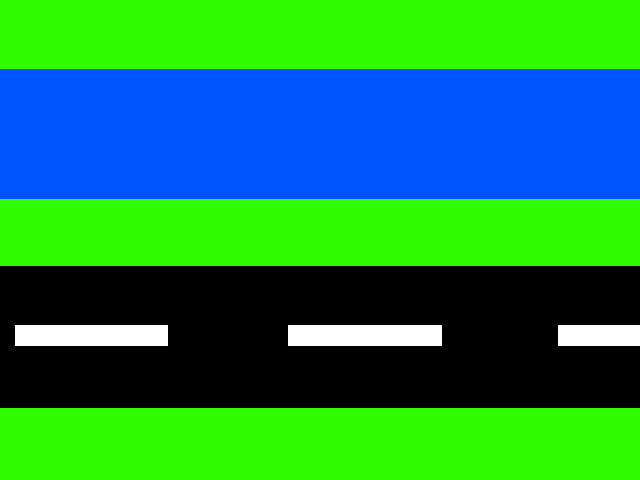
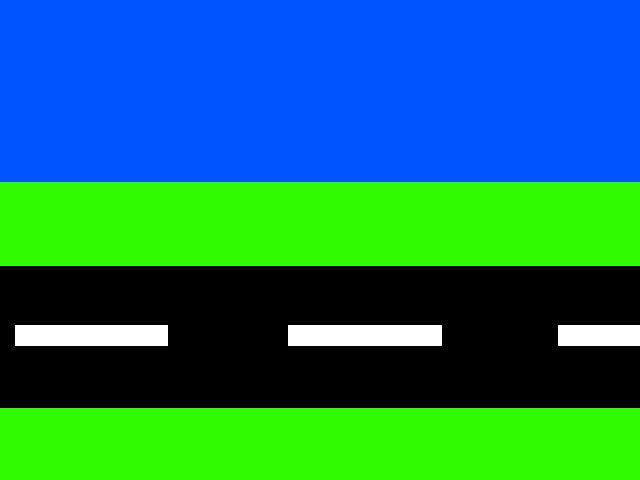
Added pads, with collision etc Water now kills frog Editied sprites

Changed region(s): [[0.0, 0.0, 1.0, 0.1562], [0.0, 0.375, 1.0, 0.4375]]

diff --git a/New Frogger/New Frogger.cpp b/New Frogger/New Frogger.cpp
@@ -4,22 +4,32 @@
 #include "Level.h"
 #include "Truck.h"
 #include "Log.h"
+#include "LilyPad.h"
 #include "DeathZone.h"
 #include "Collision.h"
 
 int main()
 {
 	sf::RenderWindow window(sf::VideoMode(640, 480), "Frogger");
-	sf::Font font;
+	const int iPad = 5;
+	int wins = 0;
+	int lives = 3;
 
 	Frog frog(window.getSize());
 	Level level(window.getSize());
 	Truck truck(window.getSize(), 0, 270);
 	Truck truck2(window.getSize(), 0, 360);
-	Log log(window.getSize(), 0, 70);
+	Log log(window.getSize(), 0, 80);
 	Log log2(window.getSize(), 0, 130);
+	LilyPad lilypad [iPad];
 	DeathZone water(window.getSize());
 	Collision collision;
+
+	lilypad[0].setPos(40, 0);
+	lilypad[1].setPos(160, 0);
+	lilypad[2].setPos(280, 0);
+	lilypad[3].setPos(400, 0);
+	lilypad[4].setPos(520, 0);
 
 	while (window.isOpen())
 	{
@@ -51,11 +61,13 @@ int main()
 
 		if (collision.TruckFrogCollision(truck.getTruck(), frog.getFrog()))
 		{
+			lives--;
 			frog.Respawn(window.getSize());
 		}
 
 		if (collision.TruckFrogCollision(truck2.getTruck(), frog.getFrog()))
 		{
+			lives--;
 			frog.Respawn(window.getSize());
 		}
 
@@ -69,15 +81,41 @@ int main()
 			frog.LogMovementType2(event);
 		}
 
-		if (collision.WaterFrogCollision(water.getDeathZone(), frog.getFrog()) /* &&
-			!collision.LogFrogCollision(log.getLog(), frog.getFrog()) &&
-			!collision.LogFrogCollision(log2.getLog(), frog.getFrog())*/)
+		for (int i = 0; i < iPad; i++)
 		{
-			frog.Respawn(window.getSize());
+			if (collision.WaterFrogCollision(water.getDeathZone(), frog.getFrog()) &&
+				!collision.LogFrogCollision(log.getLog(), frog.getFrog()) &&
+				!collision.LogFrogCollision(log2.getLog(), frog.getFrog()) &&
+				!collision.PadFrogCollision(lilypad[i].getLilyPad(), frog.getFrog()))
+			{
+				lives--;
+				frog.Respawn(window.getSize());
+			}
+
+			if (collision.PadFrogCollision(lilypad[i].getLilyPad(), frog.getFrog()))
+			{
+				lilypad[i].addFrog();
+				wins++;
+				frog.Respawn(window.getSize());
+			}
 		}
 
-		//level.Draw(window);
+		if (wins == 5)
+		{
+			std::cout << "You Win!" << std::endl;
+		}
+
+		if (lives == 0)
+		{
+			std::cout << "Game Over!" << std::endl;
+		}
+
+		level.Draw(window);
 		water.Draw(window);
+		for (int i = 0; i < iPad; i++)
+		{
+			lilypad[i].Draw(window);
+		}
 		log.Draw(window);
 		log2.Draw(window);
 		frog.Draw(window);

diff --git a/New Frogger/LilyPad.cpp b/New Frogger/LilyPad.cpp
@@ -1,0 +1,28 @@
+#include "LilyPad.h"
+
+LilyPad::LilyPad()
+{
+	lilyPadTex.loadFromFile(LILYPAD_SPRITE_FILEPATH);
+	lilyPad.setTexture(lilyPadTex);
+}
+
+void LilyPad::setPos(float x, float y)
+{
+	lilyPad.setPosition(x, y);
+}
+
+void LilyPad::addFrog()
+{
+	withFrogTex.loadFromFile(FROGPAD_SPRITE_FILEPATH);
+	lilyPad.setTexture(withFrogTex);
+}
+
+void LilyPad::Draw(sf::RenderWindow& window)
+{
+	window.draw(lilyPad);
+}
+
+sf::Sprite LilyPad::getLilyPad()
+{
+	return lilyPad;
+}

diff --git a/New Frogger/Truck.cpp b/New Frogger/Truck.cpp
@@ -11,7 +11,7 @@ Truck::Truck(sf::Vector2u window, float x, float y)
 void Truck::MovementType1(sf::Event event)
 {
 
-	truck.move(0.25f, 0.0f);
+	truck.move(0.20f, 0.0f);
 
 	if (truck.getPosition().x > 640)
 	{
@@ -25,7 +25,7 @@ void Truck::MovementType1(sf::Event event)
 void Truck::MovementType2(sf::Event event)
 {
 
-	truck.move(-0.25f, 0.0f);
+	truck.move(-0.20f, 0.0f);
 
 	if (truck.getPosition().x < -150)
 	{

diff --git a/New Frogger/Log.cpp b/New Frogger/Log.cpp
@@ -12,11 +12,11 @@ void Log::MovementType1(sf::Event event)
 {
 	sf::Clock spawn;
 
-	log.move(0.25f, 0.0f);
+	log.move(0.15f, 0.0f);
 
 	if (log.getPosition().x > 640)
 	{
-		log.setPosition(-150, 70);
+		log.setPosition(-150, 80);
 	}
 }
 
@@ -24,7 +24,7 @@ void Log::MovementType2(sf::Event event)
 {
 	sf::Clock spawn;
 
-	log.move(-0.25f, 0.0f);
+	log.move(-0.15f, 0.0f);
 
 	if (log.getPosition().x < -100)
 	{

diff --git a/New Frogger/Collision.cpp b/New Frogger/Collision.cpp
@@ -43,3 +43,16 @@ bool Collision::WaterFrogCollision(sf::RectangleShape water, sf::Sprite frog)
 	return false;
 }
 
+bool Collision::PadFrogCollision(sf::Sprite pad, sf::Sprite frog)
+{
+	sf::FloatRect frogRect = frog.getGlobalBounds();
+	sf::FloatRect padRect = pad.getGlobalBounds();
+
+	if (frogRect.intersects(padRect))
+	{
+		return true;
+	}
+
+	return false;
+}
+

diff --git a/New Frogger/LilyPad.h b/New Frogger/LilyPad.h
@@ -1,0 +1,26 @@
+#pragma once
+#include <iostream>
+#include "Definitions.h"
+#include "SFML/Graphics.hpp"
+
+class LilyPad
+{
+public:
+
+	LilyPad();
+
+	void setPos(float x, float y);
+
+	void addFrog();
+
+	void Draw(sf::RenderWindow& window);
+
+	sf::Sprite getLilyPad();
+
+private:
+
+	sf::Sprite lilyPad;
+	sf::Texture lilyPadTex;
+	sf::Texture withFrogTex;
+};
+

diff --git a/New Frogger/Frog.cpp b/New Frogger/Frog.cpp
@@ -38,12 +38,12 @@ void Frog::Movement(sf::Event event)
 
 void Frog::LogMovement(sf::Event event)
 {
-	frog.move(0.25, 0);
+	frog.move(0.15, 0);
 }
 
 void Frog::LogMovementType2(sf::Event event)
 {
-	frog.move(-0.25, 0);
+	frog.move(-0.15, 0);
 }
 
 void Frog::Respawn(sf::Vector2u size)

diff --git a/New Frogger/Definitions.h b/New Frogger/Definitions.h
@@ -7,3 +7,5 @@
 #define LEVEL_SPRITE_FILEPATH "Resources/Level.png"
 #define TRUCK_SPRITE_FILEPATH "Resources/Truck.png"
 #define LOG_SPRITE_FILEPATH "Resources/Log.png"
+#define LILYPAD_SPRITE_FILEPATH "Resources/Lilypad.png"
+#define FROGPAD_SPRITE_FILEPATH "Resources/FrogPad.png"

diff --git a/New Frogger/DeathZone.cpp b/New Frogger/DeathZone.cpp
@@ -2,8 +2,8 @@
 
 DeathZone::DeathZone(sf::Vector2u size)
 {
-	deathZone.setPosition(0, 70);
-	deathZone.setSize(sf::Vector2f(640, 130));
+	deathZone.setPosition(0, 80);
+	deathZone.setSize(sf::Vector2f(640, 100));
 	deathZone.setFillColor(sf::Color::Blue);
 }
 

diff --git a/New Frogger/Collision.h b/New Frogger/Collision.h
@@ -17,5 +17,7 @@ public:
 
 	bool WaterFrogCollision(sf::RectangleShape water, sf::Sprite frog);
 
+	bool PadFrogCollision(sf::Sprite pad, sf::Sprite frog);
+
 };
 
